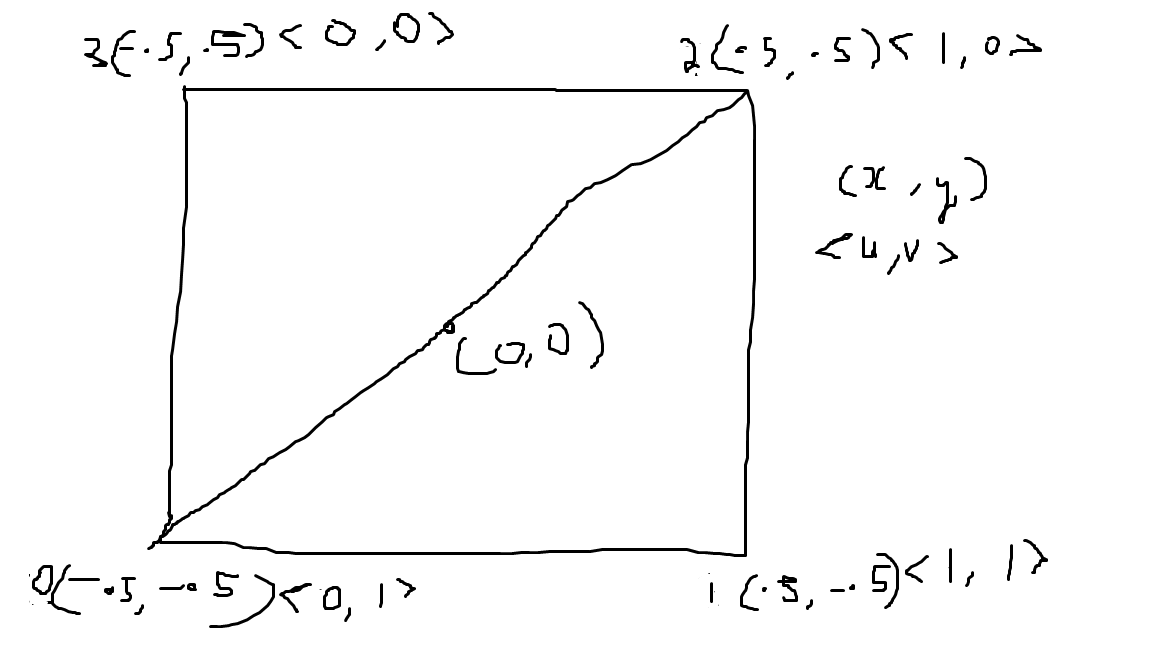
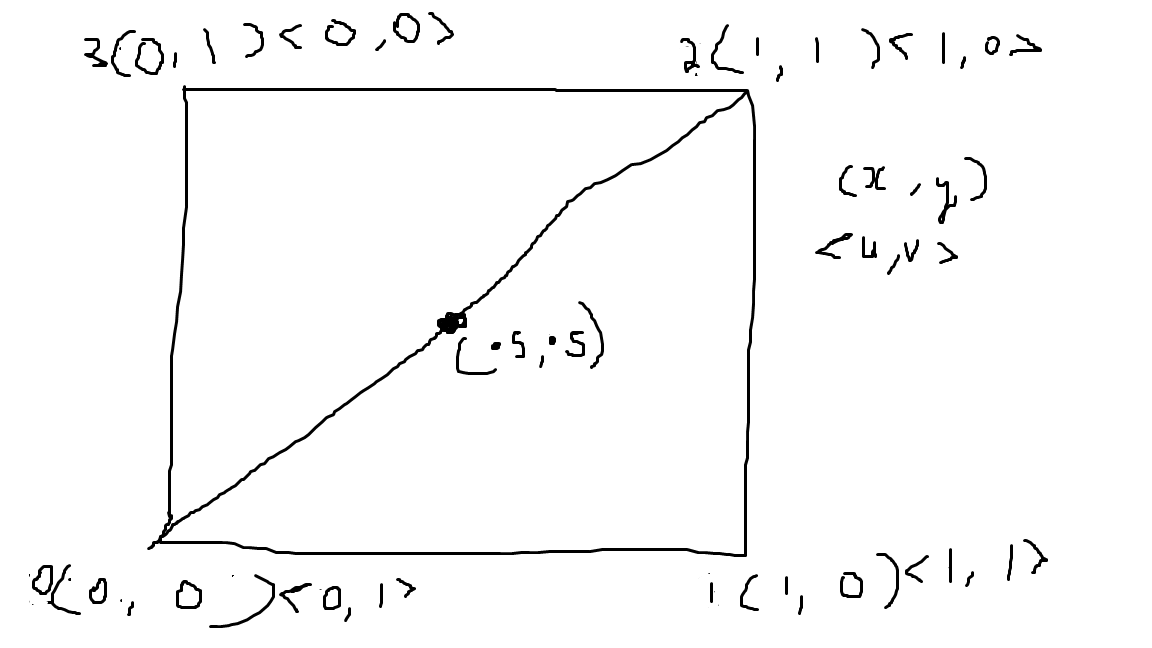
holy fucking shit font rendering finally works. oh fucking good. took almost one year?

diff --git a/Hart-Engine/src/Graphics/Renderer/Renderer2D.cpp b/Hart-Engine/src/Graphics/Renderer/Renderer2D.cpp
@@ -51,6 +51,7 @@ namespace Hart {
 		std::shared_ptr<IndexBuffer> quadIndexBuffer = std::make_shared<IndexBuffer>(quadIndices.data(), s_Data->MAX_INDICES);
 		s_Data->quadVertexArray->setIndexBuffer(quadIndexBuffer);
 
+		// use coordinates with (0, 0) at center
 		s_Data->quadVertexPositions[0] = { -0.5f, -0.5f, 0.0f, 1.0f };
 		s_Data->quadVertexPositions[1] = { 0.5f, -0.5f, 0.0f, 1.0f };
 		s_Data->quadVertexPositions[2] = { 0.5f,  0.5f, 0.0f, 1.0f };
@@ -93,15 +94,9 @@ namespace Hart {
 		std::shared_ptr<IndexBuffer> textIndexBuffer = std::make_shared<IndexBuffer>(textIndices.data(), s_Data->MAX_INDICES);
 		s_Data->textVertexArray->setIndexBuffer(textIndexBuffer);
 
-		s_Data->textVertexPositions[0] = { -0.5f, -0.5f, 0.0f, 1.0f };
-		s_Data->textVertexPositions[1] = { 0.5f, -0.5f, 0.0f, 1.0f };
-		s_Data->textVertexPositions[2] = { 0.5f,  0.5f, 0.0f, 1.0f };
-		s_Data->textVertexPositions[3] = { -0.5f,  0.5f, 0.0f, 1.0f };
 
-		s_Data->textTextureCoords[0] = { 0.0f, 1.0f };
-		s_Data->textTextureCoords[1] = { 1.0f, 1.0f };
-		s_Data->textTextureCoords[2] = { 1.0f, 0.0f };
-		s_Data->textTextureCoords[3] = { 0.0f, 0.0f };
+		float aspectRatio = static_cast<float>(Application::Get()->getWindowHeight()) / static_cast<float>(Application::Get()->getWindowWidth());
+		s_Data->textPixelScale = 0.001f / aspectRatio; //TODO: FIX
 
 		// White Texture
 		std::uint32_t whiteTextureData = 0xffffffff;
@@ -261,19 +256,58 @@ namespace Hart {
 	}
 
 	void Renderer2D::DrawText(const std::string& text, const Vec3& position, float size, const Vec4& color) {
-		DrawText(text, position, size, 0.0f, color);
-	}
+		stbtt_packedchar* packedChars = s_Data->textFont->getSTBTTPackedChar();
+		stbtt_aligned_quad* alignedQuads = s_Data->textFont->getSTBTTAlignedQuads();
+		std::uint32_t codePointFirstChar = s_Data->textFont->getCodePointFirstChar();
+		std::uint32_t numberOfCharsToInclude = s_Data->textFont->getNumberOfCharsToInclude();
 
-	void Renderer2D::DrawText(const std::string& text, const Vec3& position, float size, float angleD, const Vec4& color) {
-		Mat4 transform = Mat4::Translate(position) * Mat4::Rotate(angleD, { 0.0f, 0.0f, 1.0f }) * Mat4::Scale({ size, size, 1.0f });
+		Vec3 charPos = position;
+		for (const char ch : text) {
+			if (ch == '\n') {
+				charPos.y -= s_Data->textFont->getFontSize() * s_Data->textPixelScale * size;
+				charPos.x = position.x;
+			}
+			else if (ch < codePointFirstChar || ch >(codePointFirstChar + numberOfCharsToInclude)) {
+				continue;
+			}
+			else {
 
-		DrawText(text, transform, color);
-	}
+				stbtt_packedchar* packedChar = &packedChars[ch - codePointFirstChar];
+				stbtt_aligned_quad* alignedQuad = &alignedQuads[ch - codePointFirstChar];
 
-	void Renderer2D::DrawText(const std::string& text, const Mat4& transform, const Vec4& color) {
+				Vec3 glyphSize = {
+					(packedChar->x1 - packedChar->x0) * s_Data->textPixelScale * size,
+					(packedChar->y1 - packedChar->y0) * s_Data->textPixelScale * size,
+					1.0f
+				};
+
+				Vec3 glyphBoundingBoxBottomLeft = {
+					charPos.x + (packedChar->xoff * s_Data->textPixelScale * size),
+					charPos.y - (packedChar->yoff + packedChar->y1 - packedChar->y0) * s_Data->textPixelScale * size,
+					charPos.z
+				};
+
+				
+				// use coordinates with (0, 0) at center
+				s_Data->textVertexPositions[0] = { 0.0f, 0.0f, 0.0f, 1.0f };
+				s_Data->textVertexPositions[1] = { 1.0f, 0.0f, 0.0f, 1.0f };
+				s_Data->textVertexPositions[2] = { 1.0f, 1.0f, 0.0f, 1.0f };
+				s_Data->textVertexPositions[3] = { 0.0f, 1.0f, 0.0f, 1.0f };
 
 
-		AddNewTextVertex(transform, color);
+				s_Data->textTextureCoords[0] = { alignedQuad->s0, alignedQuad->t1 };  // Top-left
+				s_Data->textTextureCoords[1] = { alignedQuad->s1, alignedQuad->t1 };  // Top-right
+				s_Data->textTextureCoords[2] = { alignedQuad->s1, alignedQuad->t0 };  // Bottom-right
+				s_Data->textTextureCoords[3] = { alignedQuad->s0, alignedQuad->t0 };  // Bottom-left
+
+
+				Mat4 transform = Mat4::Translate(glyphBoundingBoxBottomLeft) * Mat4::Scale(glyphSize);
+
+				AddNewTextVertex(transform, color);
+
+				charPos.x += packedChar->xadvance * s_Data->textPixelScale * size;
+			}
+		}
 	}
 
 	void Renderer2D::ResetStats() {

diff --git a/Sandbox/src/Layer2D.cpp b/Sandbox/src/Layer2D.cpp
@@ -19,7 +19,8 @@ void Layer2D::onAttach() {
 	m_GrassTex = std::make_shared<Hart::Texture2D>("res/images/grass_block.png", pixelArtTextureSpec);
 	m_EmojiTex = std::make_shared<Hart::Texture2D>("res/images/awesomeface.png");
 	m_SpriteSheet = std::make_shared<Hart::SpriteSheet>("res/images/RPGpack_sheet_2X.png", Hart::Vec2(128, 128), pixelArtTextureSpec);
-	m_Font = std::make_shared<Hart::Font>("res/fonts/Roboto-Regular.ttf");
+	m_Font1 = std::make_shared<Hart::Font>("res/fonts/Roboto-Regular.ttf");
+	m_Font2 = std::make_shared<Hart::Font>("res/fonts/CascadiaCode.ttf");
 
 	m_CameraController = std::make_shared<Hart::DefaultOrthographicCameraController>(960.0f, 540.0f);
 
@@ -36,7 +37,7 @@ void Layer2D::onAttach() {
 
 	//Hart::AudioManager::PlaySound(pickupSound);
 	//Hart::AudioManager::PlayMusic(criticalTheme);
-	Hart::Renderer2D::SetFont(m_Font);
+	Hart::Renderer2D::SetFont(m_Font1);
 
 }
 
@@ -103,8 +104,15 @@ void Layer2D::render() {
 	Hart::Renderer2D::DrawQuad({ 0.0f, 0.9f }, { 0.1f, 0.1f }, Hart::White);
 	Hart::Renderer2D::DrawQuad({ -0.9f, -0.9f }, { 0.1f, 0.1f }, Hart::Red);
 
+	std::string allChars = "";
+	for (int i = 32; i <= 196; i++) {
+		if (i % 20==0) allChars += '\n';
+		allChars += i;
+	}
 
-	Hart::Renderer2D::DrawText("Hello, World", {0.0f, 0.0f, 1.0f}, 1.0f, Hart::White);
+	Hart::Renderer2D::DrawText("Hello, World", {-1.6f, 0.0f, 1.0f}, 1.0f, Hart::White);
+	Hart::Renderer2D::SetFont(m_Font2);
+	Hart::Renderer2D::DrawText(allChars, { 0.0f, 0.5f, 1.0f }, 1.0f, Hart::White);
 
 	m_ParticleSystem.render();
 

diff --git a/Hart-Engine/src/Graphics/Font.hpp b/Hart-Engine/src/Graphics/Font.hpp
@@ -8,20 +8,24 @@
 namespace Hart {
 	class Font {
 	public:
-		Font(const std::string& filePath, float size = 64.0f);
+		Font(const std::string& filePath);
 		~Font();
 
-		inline const std::size_t getFileSizeInBytes() { return m_FileSize; }
+		inline const float getFontSize() { return m_FontSize; }
 		inline void* getFontBufferData() { return m_FontDataBuffer.data(); }
 		inline std::uint32_t* getFontAtlasBitmapData() { return m_FontAtlasBitmap.data(); }
 		inline const Texture2DSpecification& getTextureSpecification() { return m_FontTextureSpecification; }
+		inline stbtt_packedchar* getSTBTTPackedChar() { return m_PackedChars.data(); }
+		inline stbtt_aligned_quad* getSTBTTAlignedQuads() { return m_AlignedQuads.data(); }
+		inline const std::uint32_t getCodePointFirstChar() { return m_CodePointFirstChar; }
+		inline const std::uint32_t getNumberOfCharsToInclude() { return m_NumberOfCharsToInclude; }
 	private:
 		std::size_t m_FileSize = 0;
 		std::vector<void*> m_FontDataBuffer;
 		std::vector<std::uint32_t> m_FontAtlasBitmap;
 		Texture2DSpecification m_FontTextureSpecification;
 
-		float m_FontSize;
+		const float m_FontSize = 64.0f;
 		static constexpr std::uint32_t m_CodePointFirstChar = 32; // ASCII Space
 		static constexpr std::uint32_t m_NumberOfCharsToInclude = 95; // ASCII(32)[Space] to ASCII(126)[~]
 

diff --git a/Hart-Engine/src/Graphics/Renderer/Renderer2D.hpp b/Hart-Engine/src/Graphics/Renderer/Renderer2D.hpp
@@ -70,8 +70,6 @@ namespace Hart {
 
 		static void SetFont(const std::shared_ptr<Font>& font);
 		static void DrawText(const std::string& text, const Vec3& position, float size, const Vec4& color = White);
-		static void DrawText(const std::string& text, const Vec3& position, float size, float angleD, const Vec4& color = White);
-		static void DrawText(const std::string& text, const Mat4& transform, const Vec4& color = White);
 
 		static void ResetStats();
 		static std::uint32_t GetNumberOfDrawCalls();

diff --git a/Hart-Engine/src/Graphics/Font.cpp b/Hart-Engine/src/Graphics/Font.cpp
@@ -1,8 +1,7 @@
 #include "Font.hpp"
 
 namespace Hart {
-	Font::Font(const std::string& filePath, float size) 
-		: m_FontSize(size) {
+	Font::Font(const std::string& filePath) {
 		if (!FileManager::FileExists(filePath)) {
 			HART_ENGINE_ERROR("Font " + filePath + " not found");
 			return;

diff --git a/Sandbox/src/Layer2D.hpp b/Sandbox/src/Layer2D.hpp
@@ -21,6 +21,7 @@ private:
 	Hart::Random m_Rd;
 	Hart::ParticleProps m_Particle;
 	Hart::ParticleSystem m_ParticleSystem;
-	std::shared_ptr<Hart::Font> m_Font;
+	std::shared_ptr<Hart::Font> m_Font1;
+	std::shared_ptr<Hart::Font> m_Font2;
 	Hart::Vec3 m_MousePos = { 0.0f, 0.0f, 1.0f };
 };

diff --git a/Hart-Engine/src/Graphics/Renderer/Renderer2DData.hpp b/Hart-Engine/src/Graphics/Renderer/Renderer2DData.hpp
@@ -61,6 +61,8 @@ namespace Hart {
 		std::array<Vec4, VERTICES_PER_QUAD> textVertexPositions;
 		std::array<Vec2, VERTICES_PER_QUAD> textTextureCoords;
 
+		float textPixelScale;
+
 		struct Stats {
 		public:
 			std::uint32_t numberOfDrawCalls = 0;

diff --git a/README.md b/README.md
@@ -14,7 +14,9 @@ CMake
 ## Dependencies
 * [glfw](https://www.glfw.org/): For Windowing, Creating OpenGL Context, Input handling, etc.
 * [glad](https://glad.dav1d.de/): For accessing OpenGL functions.
-* [stb](https://github.com/nothings/stb): Specifically [stb_image](https://github.com/nothings/stb/blob/master/stb_image.h) for loading images.<br>
+* [stb](https://github.com/nothings/stb):
+  * [stb_image](https://github.com/nothings/stb/blob/master/stb_image.h) for loading images.
+  * [stb_truetype](https://github.com/nothings/stb/blob/master/stb_truetype.h) for loading ttf fonts
 * [miniaudio](https://miniaud.io/): For audio
 
 ## Build Instructions
@@ -53,3 +55,5 @@ You can also use any of the predefined cmake presets, `use cmake --list-presets`
 
 ## Note
 Heavily inspired by the [TheCherno](https://www.youtube.com/@TheCherno)'s [Sparky Engine series](https://youtube.com/playlist?list=PLlrATfBNZ98fqE45g3jZA_hLGUrD4bo6_&si=7wCTJJ7dkz3_YiHU) and [Hazel Game Engine](https://youtube.com/playlist?list=PLlrATfBNZ98dC-V-N3m0Go4deliWHPFwT&si=DDBFTAqIOJZEUX0i) series <br>
+
+The font rendering was implemented based on the [this article](https://dev.to/shreyaspranav/how-to-render-truetype-fonts-in-opengl-using-stbtruetypeh-1p5k).
